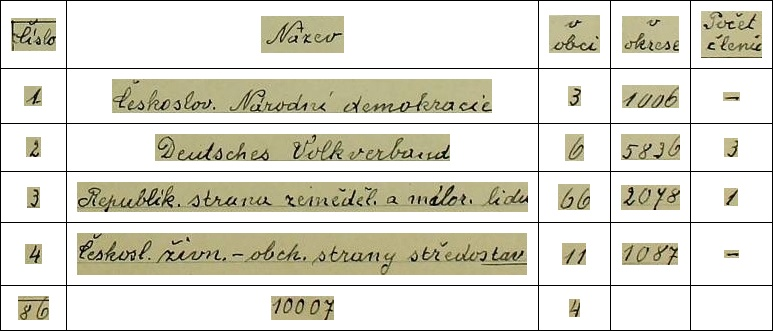
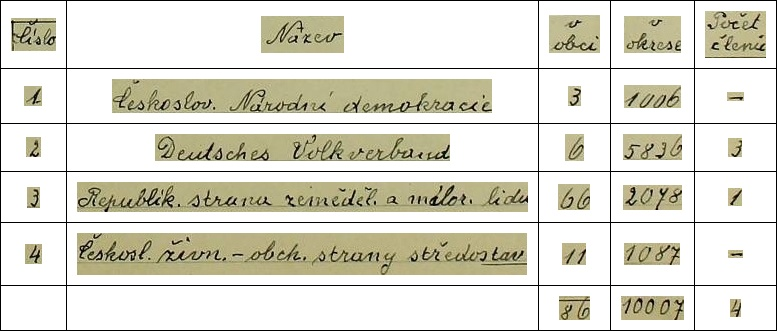
Fix error with bad loading of cells (add column increment for empty cells)

diff --git a/dataset/reconstruct_tables.py b/dataset/reconstruct_tables.py
@@ -197,6 +197,9 @@ class TableConstructor:
         # beautify html
         soup = BeautifulSoup(html)
 
+        # print prettified html if needed
+        # print(soup.prettify())
+
         # soup find table
         table = soup.find('table')
         if table is None:
@@ -233,9 +236,9 @@ class TableConstructor:
                     j += 1
                     continue
 
-                # print(f'col: {col.prettify()}')
                 cell_ids = self.cell_text_to_ids(col.text)
                 if cell_ids is None or len(cell_ids) == 0:
+                    j += 1
                     continue
 
                 col_span = int(col.get('colspan', 1))
@@ -312,7 +315,10 @@ class TableConstructor:
         x2 = max([line[:, 0].max() for line in lines])
         y2 = max([line[:, 1].max() for line in lines])
 
-        return xywh_to_polygon(x1, y1, x2 - x1, y2 - y1)
+        w = x2 - x1
+        h = y2 - y1
+
+        return xywh_to_polygon(x1, y1, w, h)
 
     def get_the_most_common_category(self, lines: list[TextLine]) -> str:
         line_categories = [line.category for line in lines]
